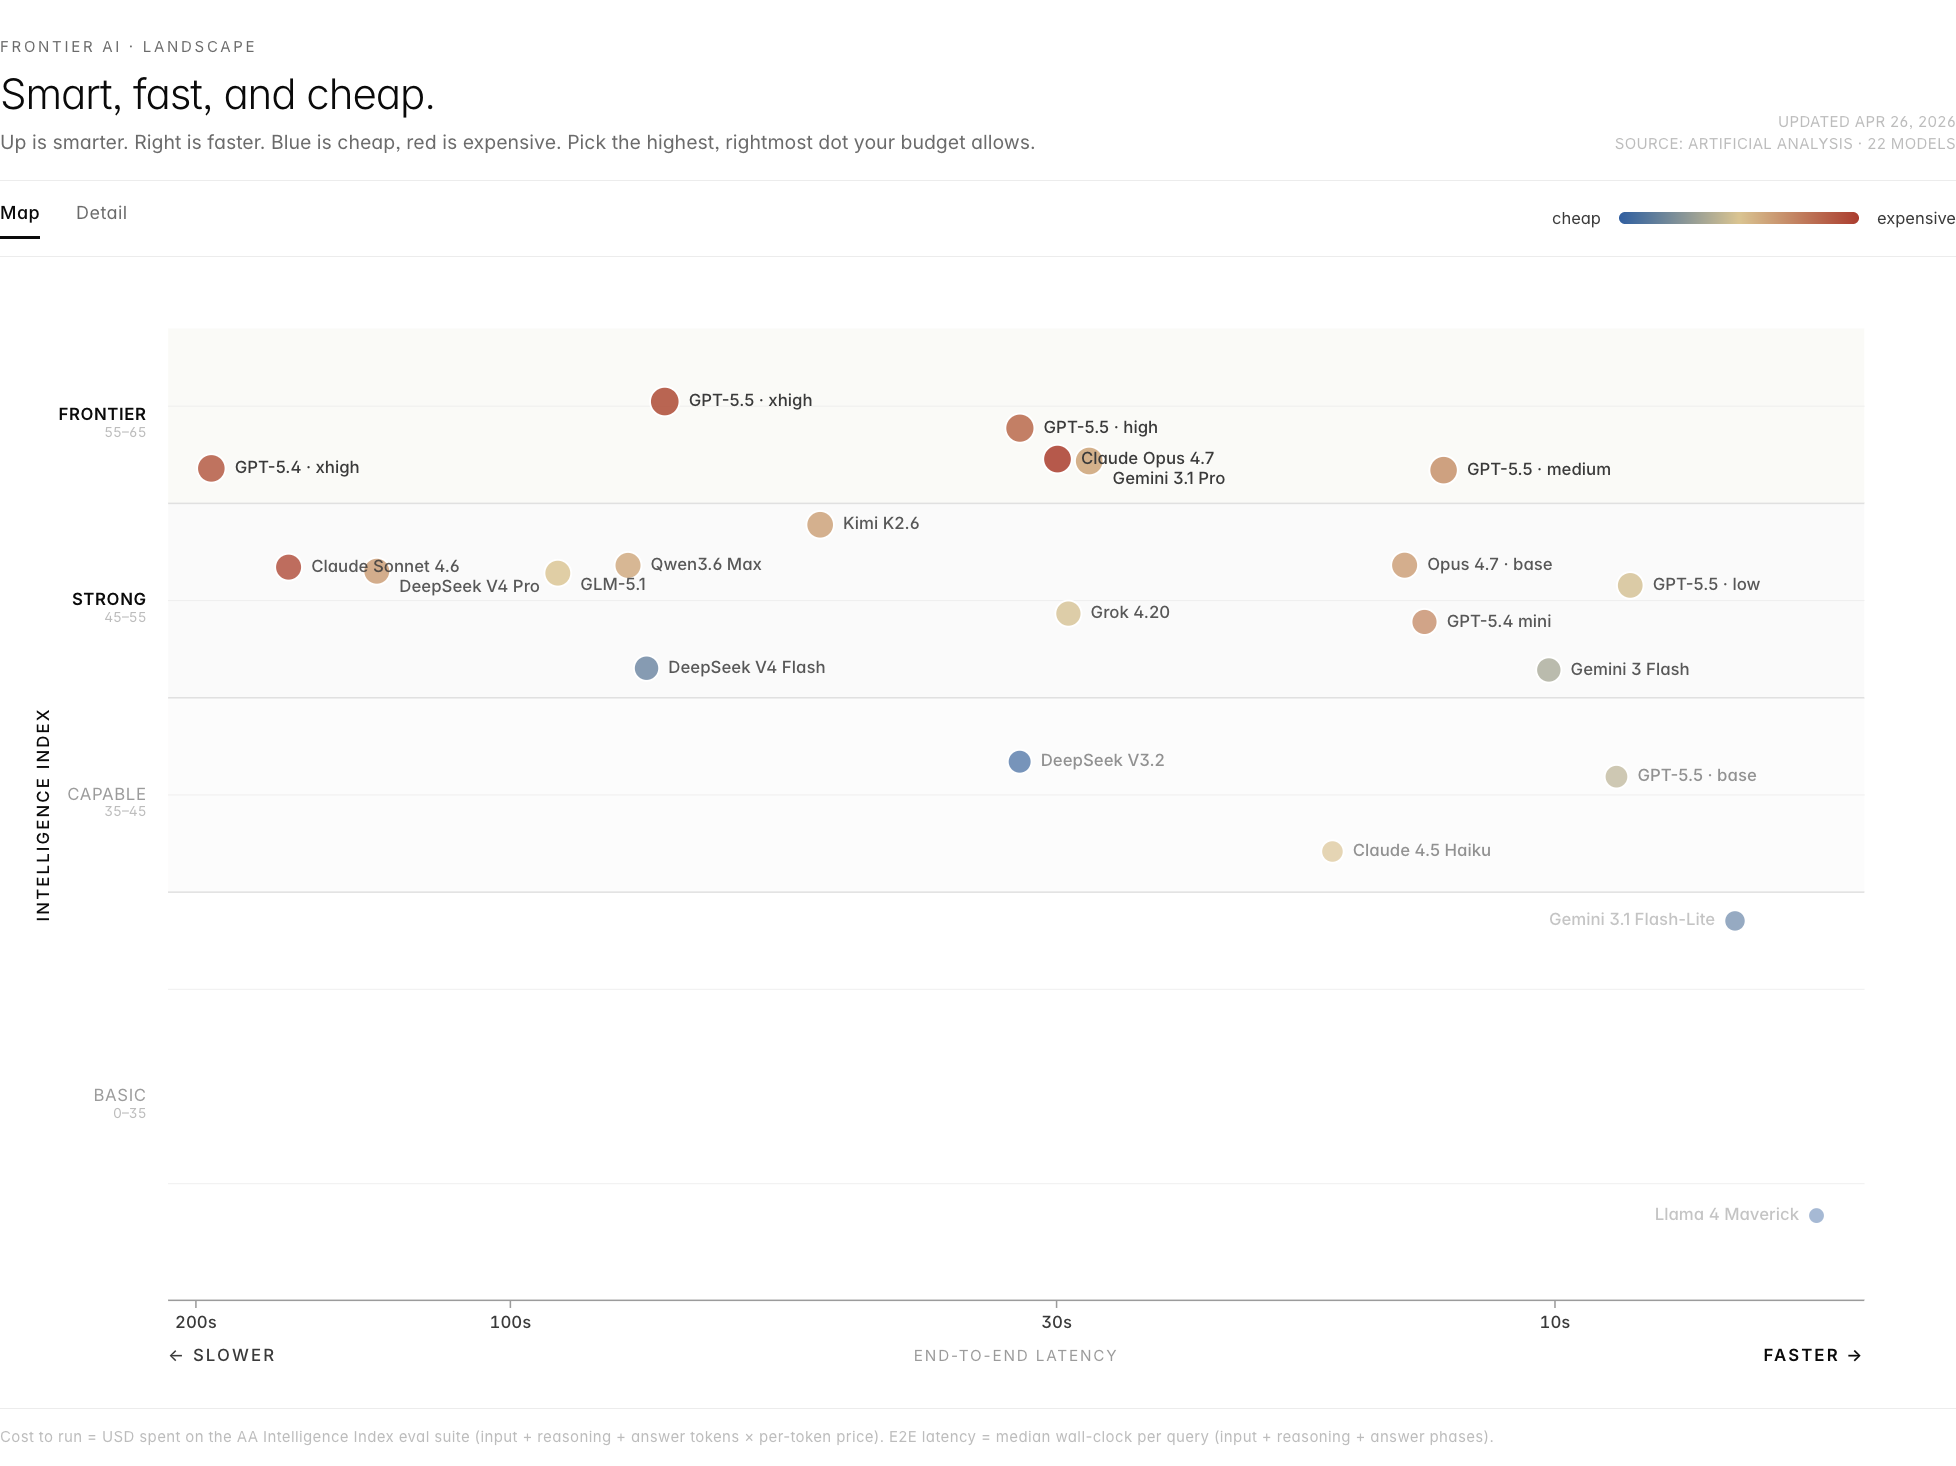
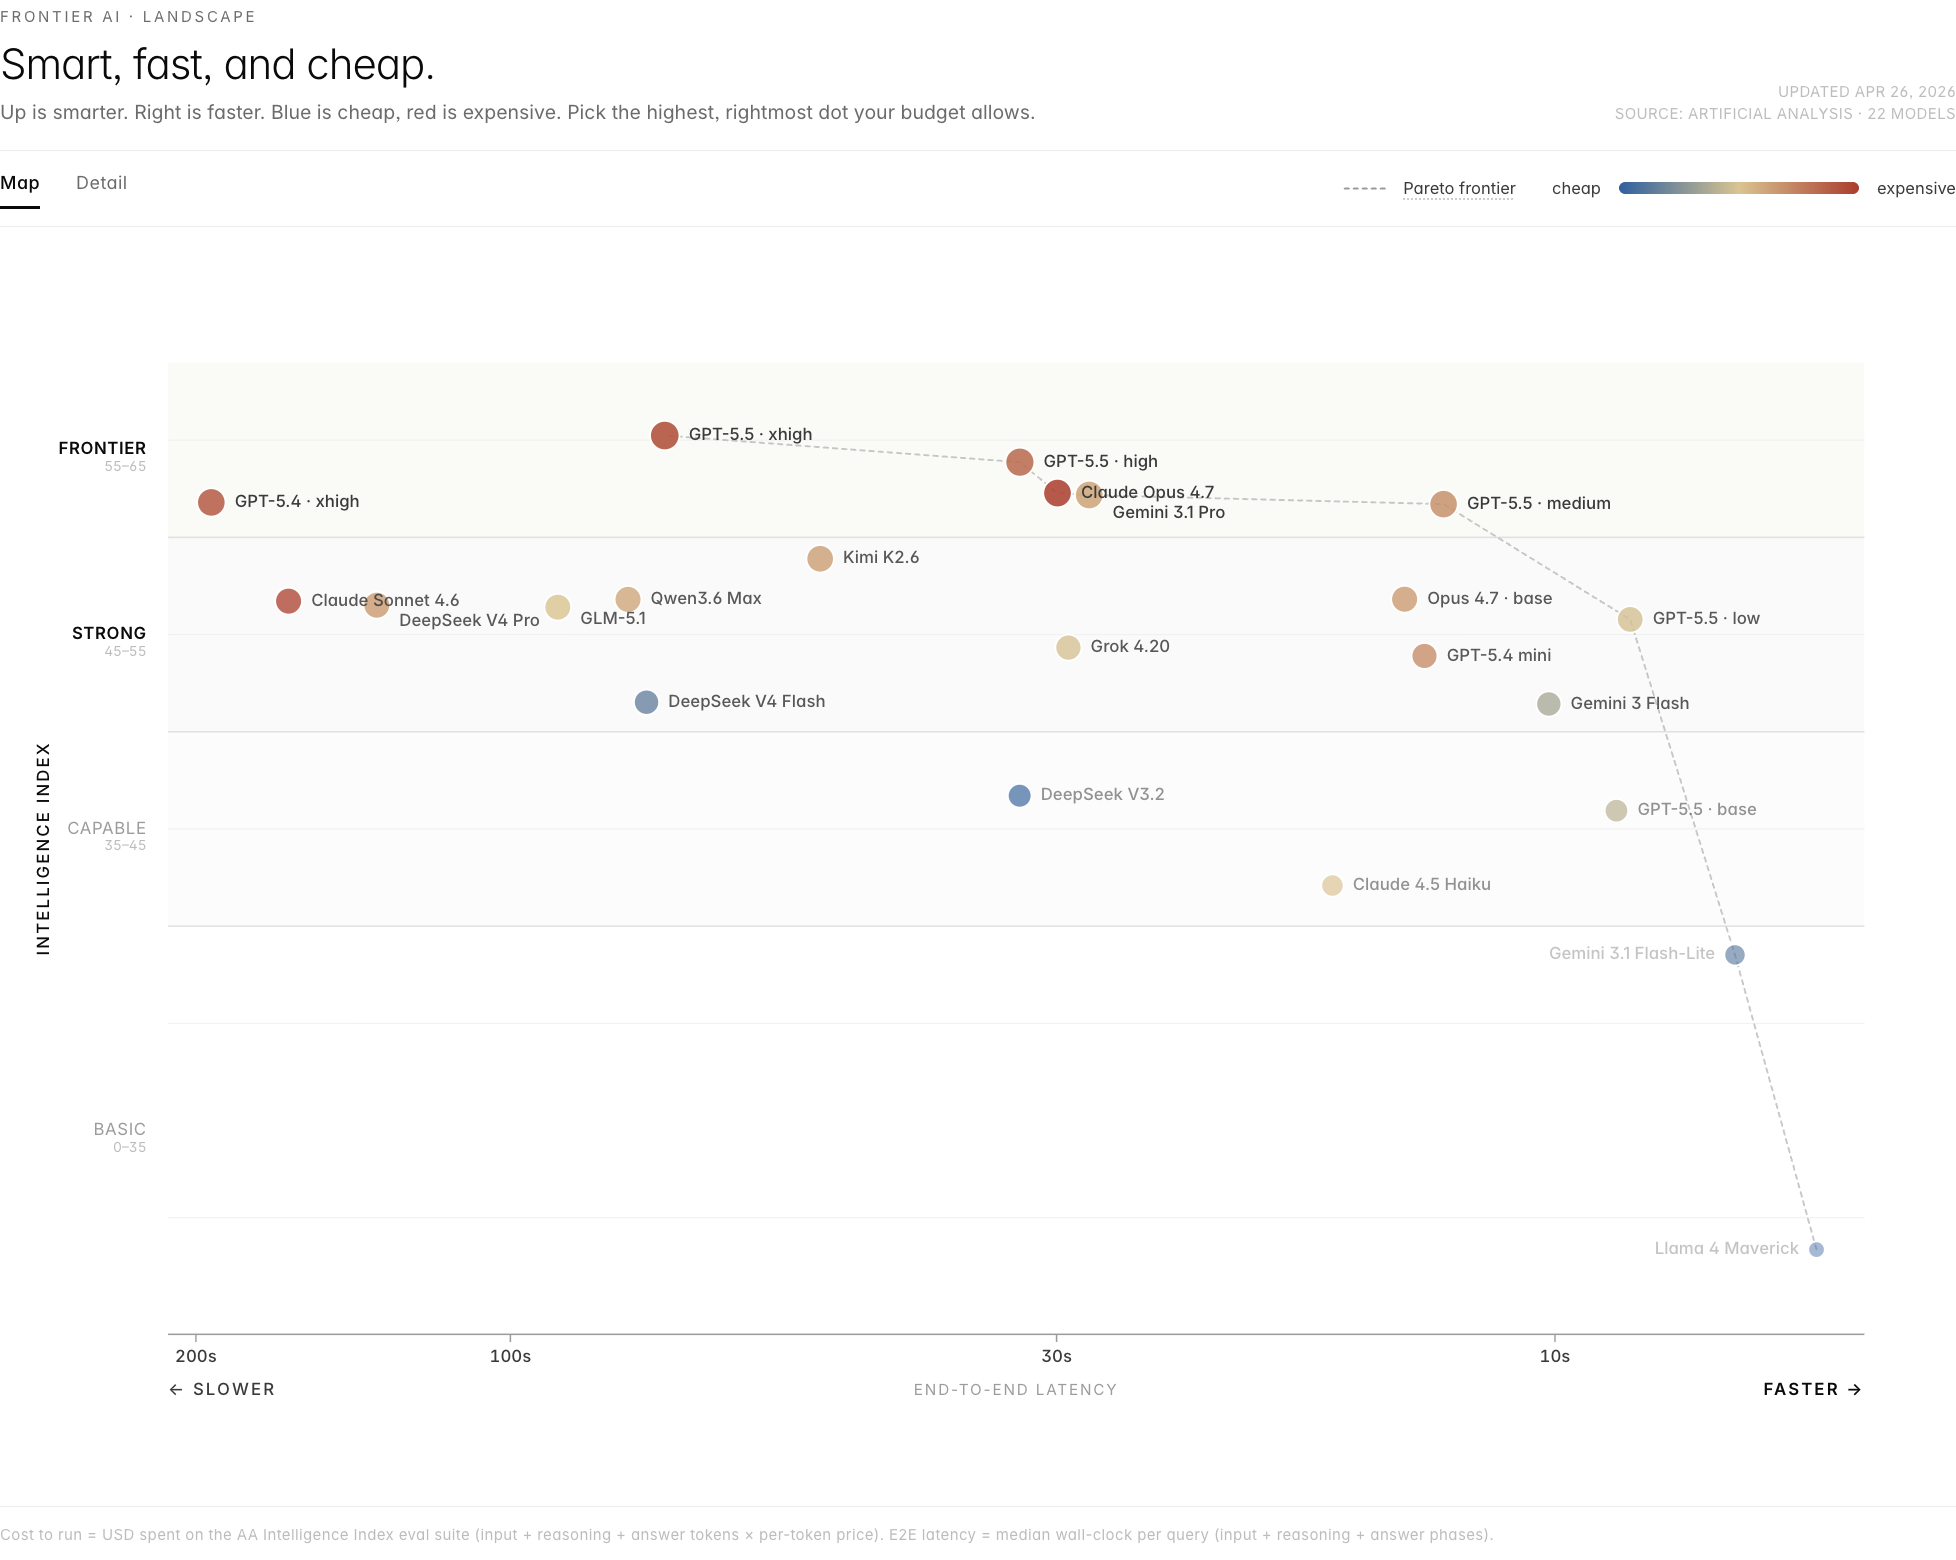
Add Pareto frontier guide line and legend
Dashed line through non-dominated models on the (intel, latency) plane.
Legend item next to the cost legend with a hover popover defining the
term. Refresh README screenshot.

diff --git a/src/App.tsx b/src/App.tsx
@@ -144,6 +144,31 @@ function MapChart({
 
   const labels = useMemo(() => placeLabels(models, xy, innerW), [models]);
 
+  // Pareto frontier on (intelligence ↑, latency ↓): models that no other
+  // model beats on both axes. Sweep from fastest to slowest, keeping any
+  // point that raises the running-best intelligence.
+  const frontier = useMemo(() => {
+    const sweep = [...models].sort(
+      (a, b) => a.e2eLatency - b.e2eLatency || b.intelligence - a.intelligence,
+    );
+    const keep: Model[] = [];
+    let bestIntel = -Infinity;
+    for (const m of sweep) {
+      if (m.intelligence > bestIntel) {
+        keep.push(m);
+        bestIntel = m.intelligence;
+      }
+    }
+    return keep.sort((a, b) => a.intelligence - b.intelligence);
+  }, [models]);
+
+  const frontierPath = frontier
+    .map((m, i) => {
+      const { x, y } = xy(m);
+      return `${i === 0 ? "M" : "L"}${x.toFixed(1)},${y.toFixed(1)}`;
+    })
+    .join(" ");
+
   const ordered = [...models].sort((a, b) => {
     if (a.slug === hoveredSlug) return 1;
     if (b.slug === hoveredSlug) return -1;
@@ -283,6 +308,21 @@ function MapChart({
           INTELLIGENCE INDEX
         </text>
 
+        {/* Pareto frontier — guide line through non-dominated points */}
+        {frontier.length > 1 && (
+          <path
+            d={frontierPath}
+            fill="none"
+            stroke="#9b9b9b"
+            strokeWidth={1.25}
+            strokeDasharray="3 3"
+            strokeLinecap="round"
+            strokeLinejoin="round"
+            opacity={hoveredSlug ? 0.15 : 0.55}
+            style={{ pointerEvents: "none", transition: "opacity 200ms ease-out" }}
+          />
+        )}
+
         {/* Dots */}
         {ordered.map((m) => {
           const { x, y, r } = xy(m);
@@ -342,6 +382,35 @@ function MapChart({
         })}
       </g>
     </svg>
+  );
+}
+
+function FrontierLegend() {
+  return (
+    <div className="relative group flex items-center gap-2 cursor-help">
+      <svg width="32" height="6" className="shrink-0" aria-hidden>
+        <line
+          x1="1"
+          y1="3"
+          x2="31"
+          y2="3"
+          stroke="#9b9b9b"
+          strokeWidth="1.25"
+          strokeDasharray="3 3"
+          strokeLinecap="round"
+        />
+      </svg>
+      <span className="text-[11px] text-ink-700 underline decoration-dotted decoration-ink-300 underline-offset-[3px]">
+        Pareto frontier
+      </span>
+      <div
+        className="invisible opacity-0 group-hover:visible group-hover:opacity-100 absolute top-full right-0 mt-2 w-64 bg-white border border-ink-100 rounded-lg px-3 py-2 text-[11px] text-ink-700 leading-snug z-30 transition-opacity duration-150"
+        style={{ boxShadow: "0 1px 2px rgba(0,0,0,0.04), 0 8px 24px rgba(0,0,0,0.06)" }}
+      >
+        Models on this line aren't beaten by any other on <em>both</em> intelligence and
+        speed. Dots below-left are dominated — there's another model that wins on both axes.
+      </div>
+    </div>
   );
 }
 
@@ -572,7 +641,10 @@ export default function App() {
             <TabBtn id="chart" label="Map" />
             <TabBtn id="detail" label="Detail" />
           </div>
-          <CostLegend />
+          <div className="flex items-center gap-6">
+            <FrontierLegend />
+            <CostLegend />
+          </div>
         </div>
 
         <main className="flex-1 min-h-0 mt-3 relative">